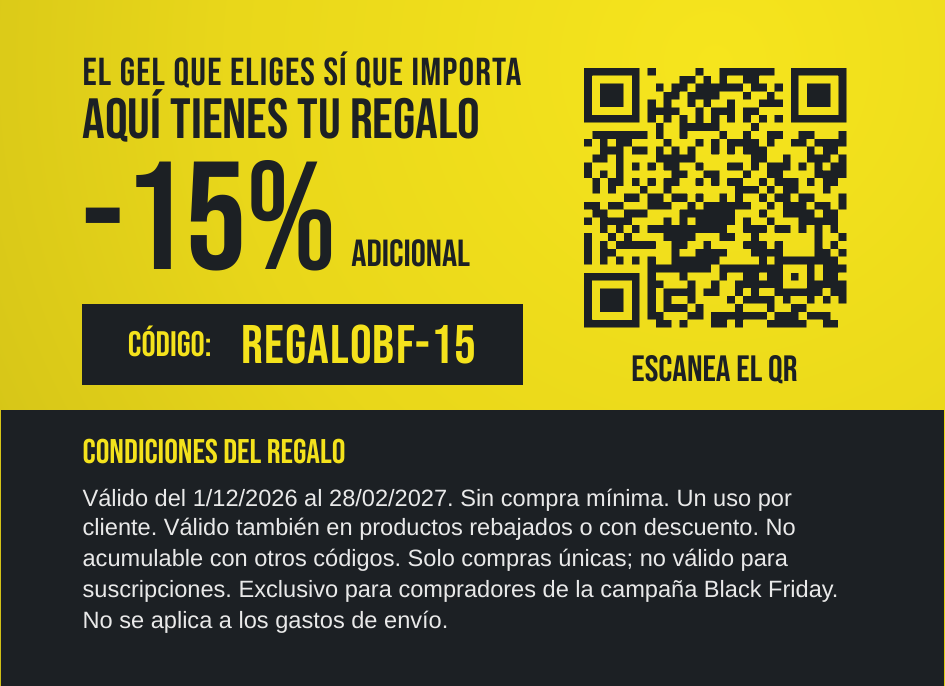
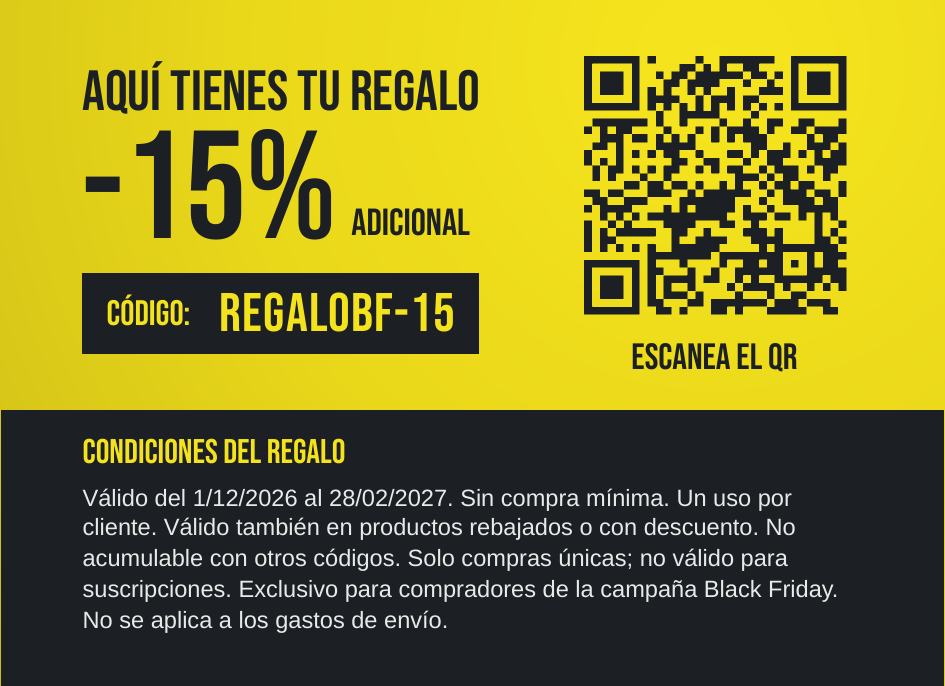
A8: remove tagline on back
Claude-Session: https://claude.ai/code/session_01ESgrYfWtbUyydYC5uboLBi

Changed region(s): [[0.0614, 0.0612, 0.5524, 0.5816], [0.6138, 0.0612, 0.9206, 0.5816]]

diff --git a/a8/a8.html b/a8/a8.html
@@ -8,7 +8,7 @@ body{font-family:Bebas,sans-serif;color:#1c2024}
 .in{position:absolute;left:1mm;top:1mm;width:80mm;height:58mm}.front .in{display:flex;flex-direction:column;align-items:center;justify-content:center;text-align:center;padding:0 7mm}
 .front img{width:50mm}
 .front .t{margin-top:2.6mm;font-size:6mm;line-height:1;letter-spacing:.1mm}
-.top{position:absolute;left:0;right:0;top:0;height:35mm;padding:4.5mm 7mm 0;display:flex;justify-content:space-between;align-items:flex-start}
+.top{position:absolute;left:0;right:0;top:0;height:35mm;padding:0 7mm;display:flex;justify-content:space-between;align-items:center}
 .l{display:flex;flex-direction:column;width:max-content}
 .kick{white-space:nowrap;font-size:3.3mm;letter-spacing:.1mm;line-height:1}
 .reg{font-size:4.8mm;margin-top:0;line-height:1}
@@ -17,7 +17,7 @@ body{font-family:Bebas,sans-serif;color:#1c2024}
 .big span{font-size:3.2mm;line-height:1;padding-bottom:1mm}
 .code{display:flex;align-items:center;gap:3mm;background:#1c2024;color:#f4e21c;padding:.9mm 0 .5mm;margin-top:1.4mm;width:0;min-width:100%;white-space:nowrap;justify-content:center;gap:2.5mm}
 .code small{font-size:3mm}.code b{font-weight:400;font-size:4.6mm;letter-spacing:.1mm}
-.r{display:flex;flex-direction:column;align-items:center;gap:0;padding-top:0;margin-top:-.5mm}
+.r{display:flex;flex-direction:column;align-items:center;gap:0;padding-top:0;margin-top:0}
 .qr{width:25mm;height:25mm;background:none;padding:0}.qr img{width:100%;height:100%;display:block}
 .r small{font-size:3.1mm;letter-spacing:0;margin-top:.2mm}
 .bot{position:absolute;left:0;right:0;bottom:-2mm;height:25.5mm;background:#1c2024;color:#f4e21c;padding:2.4mm 7mm 0}
@@ -27,7 +27,7 @@ body{font-family:Bebas,sans-serif;color:#1c2024}
 <div class="p y front"><div class="in"><img src="logo.png"><div class="t">EL GEL QUE ELIGES<br>SÍ QUE IMPORTA</div></div></div>
 <div class="p y"><div class="in">
  <div class="top">
-  <div class="l"><div class="kick">EL GEL QUE ELIGES SÍ QUE IMPORTA</div><div class="reg">AQUÍ TIENES TU REGALO</div><div class="big"><b>-15%</b><span>ADICIONAL</span></div><div class="code"><small>CÓDIGO:</small><b>REGALOBF-15</b></div></div>
+  <div class="l"><div class="reg">AQUÍ TIENES TU REGALO</div><div class="big"><b>-15%</b><span>ADICIONAL</span></div><div class="code"><small>CÓDIGO:</small><b>REGALOBF-15</b></div></div>
   <div class="r"><div class="qr"><img src="qr_transparente.png"></div><small>ESCANEA EL QR</small></div>
  </div>
  <div class="bot"><h3>CONDICIONES DEL REGALO</h3><p>Válido del 1/12/2026 al 28/02/2027. Sin compra mínima. Un uso por cliente. Válido también en productos rebajados o con descuento. No acumulable con otros códigos. Solo compras únicas; no válido para suscripciones. Exclusivo para compradores de la campaña Black Friday. No se aplica a los gastos de envío.</p></div>
